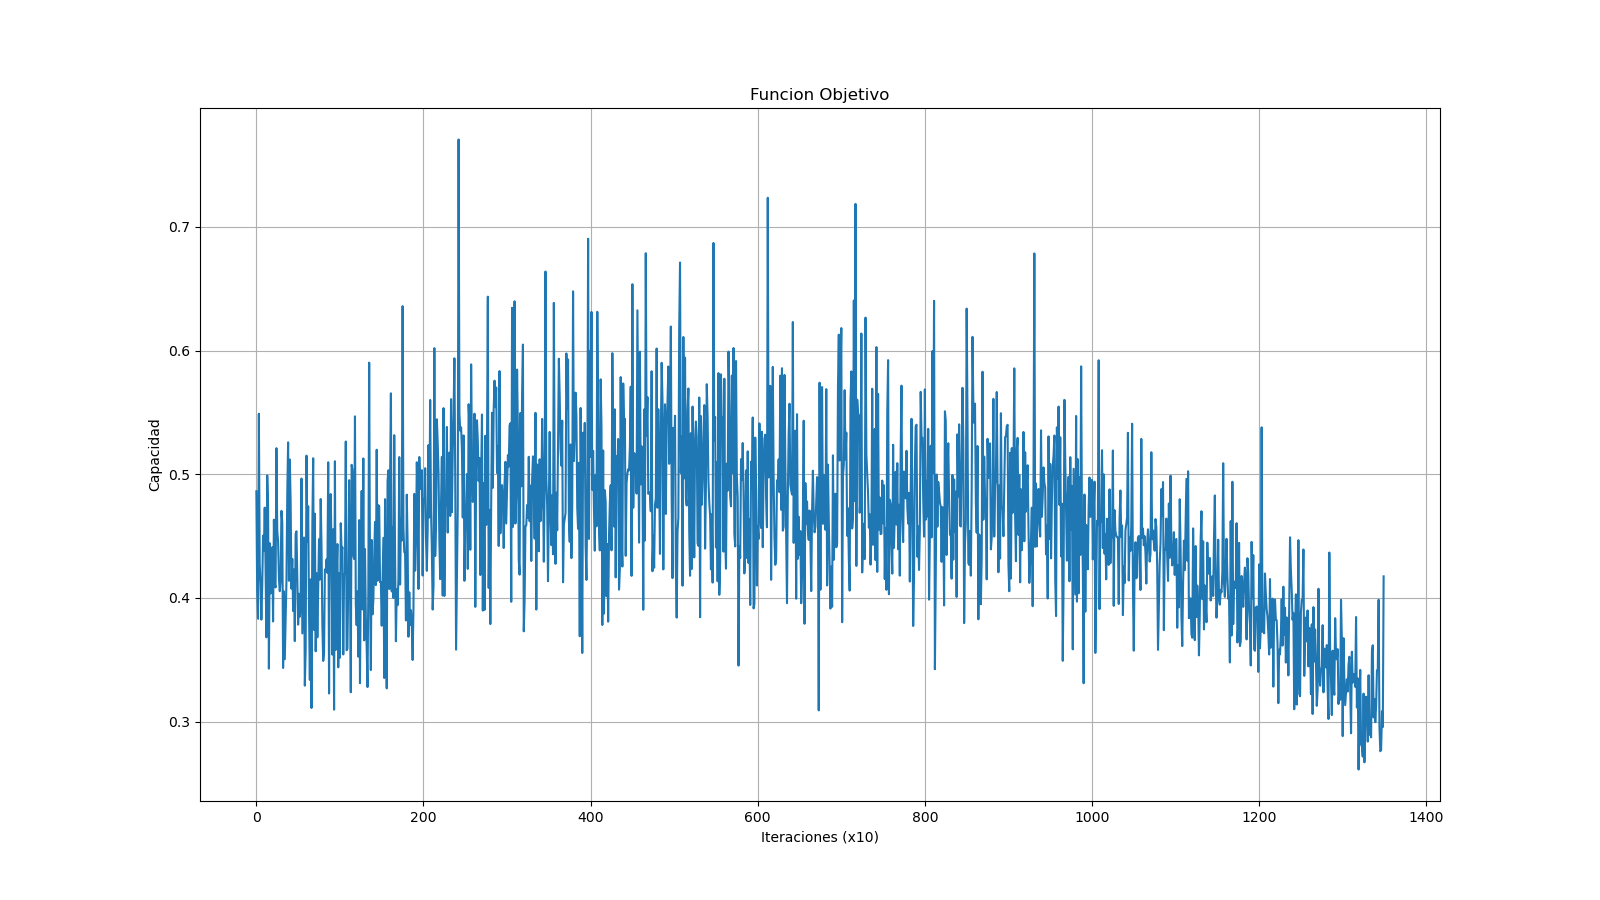
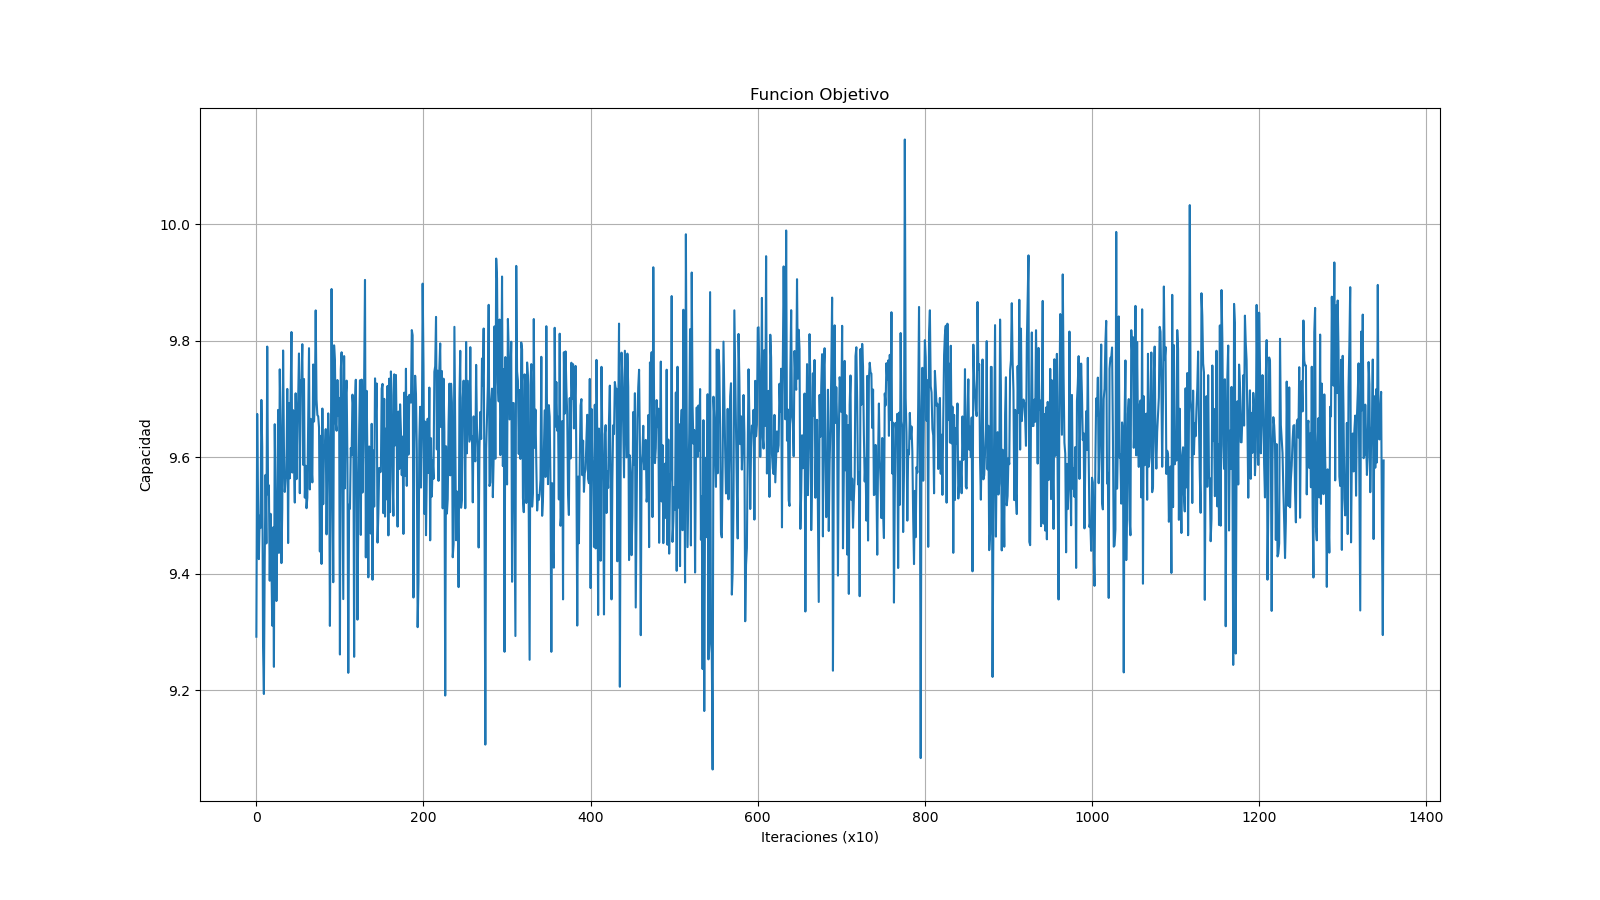
act gcapde

diff --git a/RUN/train.py b/RUN/train.py
@@ -35,37 +35,47 @@ from utils import nuevo_get_rates
 from utils import graphs_to_tensor_synthetic
 
 
-def run(building_id=990, b5g=False, num_links=5, num_channels = 3, num_layers=5, K=3, batch_size=64, epochs=100, eps=5e-5, mu_lr=1e-4, synthetic=1, rn=100, rn1=100, p0 = 4, sigma = 1e-4):   
+def run(building_id=990, b5g=False, num_links=5, num_channels=3, num_layers=5, K=3,
+        batch_size=64, epochs=100, eps=5e-5, mu_lr=1e-4, synthetic=1, rn=100, rn1=100,
+        p0=4, sigma=1e-4):   
 
     banda = ['2_4', '5']
     eps_str = str(f"{eps:.0e}")
-    mu_lr_str= str(f"{mu_lr:.0e}")
+    mu_lr_str = str(f"{mu_lr:.0e}")
 
     if synthetic:
-        x_tensor, channel_matrix_tensor = graphs_to_tensor_synthetic(num_links=num_links,num_features=1, b5g=b5g, building_id=building_id)
+        x_tensor, channel_matrix_tensor = graphs_to_tensor_synthetic(
+            num_links=num_links, num_features=1, b5g=b5g, building_id=building_id
+        )
         dataset = get_gnn_inputs(x_tensor, channel_matrix_tensor)
         dataloader = DataLoader(dataset[:7000], batch_size=batch_size, shuffle=True, drop_last=True)
     else:
-        x_tensor, channel_matrix_tensor = graphs_to_tensor(train=True, num_links=num_links, num_features=1, b5g=b5g, building_id=building_id)
+        x_tensor, channel_matrix_tensor = graphs_to_tensor(
+            train=True, num_links=num_links, num_features=1, b5g=b5g, building_id=building_id
+        )
         dataset = get_gnn_inputs(x_tensor, channel_matrix_tensor)
         dataloader = DataLoader(dataset, batch_size=batch_size, shuffle=True, drop_last=True)
 
     mu_k = torch.ones((1, 1), requires_grad=False)
-    epochs = epochs
 
-    # pmax = num_links
-    pmax = num_links*num_channels
+    pmax = num_links * num_channels
 
+    # ---- Definición de red ----
     input_dim = 1
     hidden_dim = 1
-    output_dim = (num_channels + 1) + 1  # canales + 1 off, y una salida extra para potencia 
-    num_layers = num_layers
+
+    # Definí los niveles de potencia discretos
+    power_levels = torch.tensor([p0/2, p0])   # ej. 2 niveles
+    num_power_levels = len(power_levels)
+
+    # Número total de acciones: no_tx + (canales * niveles de potencia)
+    num_actions = 1 + num_channels * num_power_levels
+
+    output_dim = num_actions
     dropout = False
-    K = K
     
     gnn_model = GNN(input_dim, hidden_dim, output_dim, num_layers, dropout, K)
-
-    optimizer = optim.Adam(gnn_model.parameters(), lr= mu_lr)
+    optimizer = optim.Adam(gnn_model.parameters(), lr=mu_lr)
 
     objective_function_values = []
     power_constraint_values = []
@@ -73,33 +83,42 @@ def run(building_id=990, b5g=False, num_links=5, num_channels = 3, num_layers=5,
     mu_k_values = []
     probs_values = []   
 
-
     for epoc in range(epochs):
         print("Epoch number: {}".format(epoc))
         for batch_idx, data in enumerate(dataloader):
     
             channel_matrix_batch = data.matrix
             channel_matrix_batch = channel_matrix_batch.view(batch_size, num_links, num_links) # [64, 5, 5]
-            psi = gnn_model.forward(data.x, data.edge_index, data.edge_attr) # [320, 5]
-            psi = psi.view(batch_size, num_links, output_dim) # [64, 5, 5]
+            
+            psi = gnn_model.forward(data.x, data.edge_index, data.edge_attr)   # [batch*num_links, num_actions]
+            psi = psi.view(batch_size, num_links, output_dim)                  # [batch, num_links, num_actions]
           
-            # Separa en parte discreta y continua
-            probs = torch.softmax(psi[:,:,:num_channels+1], dim=-1)   # [batch, num_links, num_channels+1]
-            powers = torch.sigmoid(psi[:,:,-1]) * p0   # [batch, num_links], potencia continua en [0,p0]
+            # Distribución sobre acciones
+            probs = torch.softmax(psi, dim=-1)  # [batch, num_links, num_actions]
 
-            # Muestras el canal
-            dist = torch.distributions.Categorical(probs=probs)  
-            actions = dist.sample()
-            log_p = dist.log_prob(actions)     # [64, 5]
-            log_p_sum = log_p.sum(dim=1).unsqueeze(-1)       # [64,1]
+            # Muestreamos acciones
+            dist = torch.distributions.Categorical(probs=probs)
+            actions = dist.sample()                           # [batch, num_links]
+            log_p = dist.log_prob(actions)                    # [batch, num_links]
+            log_p_sum = log_p.sum(dim=1).unsqueeze(-1)        # [batch, 1]
 
+            # Construimos phi [batch, num_links, num_channels]
             phi = torch.zeros(batch_size, num_links, num_channels, device=probs.device)
-            active_mask = (actions > 0)
-            active_channels = actions[active_mask] - 1
-            phi[active_mask, active_channels] = powers[active_mask]   # asigna potencia aprendida
 
-            # Calcula constraint
-            power_constr = power_constraint(phi, pmax).unsqueeze(-1)  # [batch_size,1]
+            # Máscara de los que transmiten (acción != 0)
+            active_mask = (actions > 0)
+
+            if active_mask.any():
+                # Para los que transmiten: calcular canal y potencia
+                actions_active = actions[active_mask] - 1                  # [N_activos]
+                channel_idx = actions_active // num_power_levels           # índice del canal
+                power_idx   = actions_active % num_power_levels            # índice de nivel de potencia
+
+                # Asignar potencia discreta según el catálogo
+                phi[active_mask, channel_idx] = power_levels.to(phi.device)[power_idx]
+
+            # --- constraint de potencia ---
+            power_constr = power_constraint(phi, pmax).unsqueeze(-1)   # [batch_size, 1]
             power_constr_mean = torch.mean(power_constr, dim=0)
 
             # Calcula rates
@@ -117,19 +136,18 @@ def run(building_id=990, b5g=False, num_links=5, num_channels = 3, num_layers=5,
             loss = cost * log_p_sum                   # [batch_size,1]
             loss_mean = torch.mean(loss, dim=0)
 
-
             loss_mean.backward()
             torch.nn.utils.clip_grad_norm_(gnn_model.parameters(), max_norm=1.0)
             optimizer.step()
             optimizer.zero_grad()
 
-            if batch_idx%10 == 0:
+            if batch_idx % 10 == 0:
                 probs_values.append(probs.mean(dim=[0,1]).detach().numpy())
                 power_constraint_values.append(power_constr_mean.detach().numpy())
                 objective_function_values.append(-sum_rate_mean.detach().numpy())
                 loss_values.append(loss_mean.squeeze(-1).detach().numpy())
                 mu_k_values.append(mu_k.squeeze(-1).detach().numpy())
-    
+
 
     for name, param in gnn_model.named_parameters():
         if param.requires_grad:
